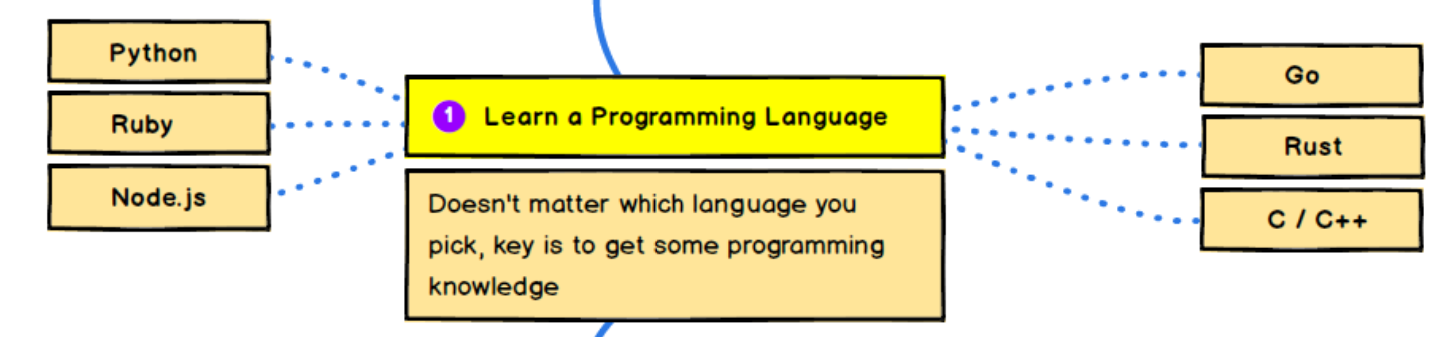
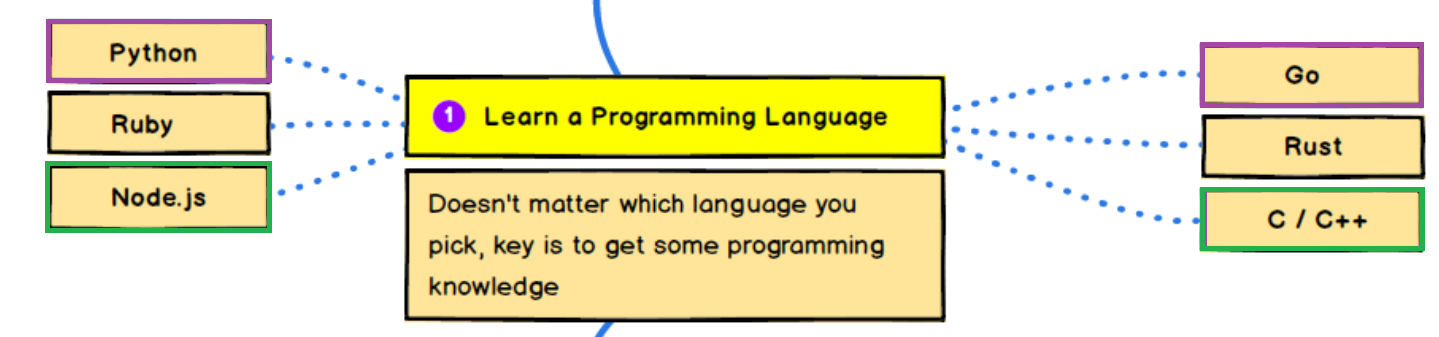
newpost1223-workin1

diff --git a/_posts/2019-12-23-now_I_know.md b/_posts/2019-12-23-now_I_know.md
@@ -5,7 +5,19 @@ title: 19년말 지금 나는 뭘 아나?
 
 > 월.요.일.조.아
 
-크리스마스 주에는 일이 별로 없다. 그래서 오늘은 잠시 블로그를 써봐도 될것만 같다. 오늘은 저번에 봤던 roadmap에서 **대체 난 뭘 아나?**를 알아볼 것이다.
+크리스마스 주에는 일이 별로 없다. 그래서 오늘은 잠시 블로그를 써봐도 될것만 같다. 
+오늘은 저번에 봤던 roadmap에서 **대체 난 뭘 아나?**를 알아볼 것이다.
 
 ## 1. Learn a Programming Language
 ![section1]({{site.baseurl}}/images/section1.PNG)
+프로그래밍 컨셉에 대해서 이해를 한다!가 핵심이라면
+'나는 C++과 Node.JS를 통해서 프로그래밍 컨셉을 이해했음'이라고 이야기 할 것 같다.
+
+나에게 있어 C++은 프로그래밍 자체, Node.JS는 프로그래밍 언어 컨셉에 가깝다.
+
+- C++에서 class를 엄청 많이 써서 OO(Object Oriented)컨셉을 배웠다기 보다는 [백준](https://www.acmicpc.net/user/gongtuigigi)에서 문제를 풀면서 데이터 구조와 알고리즘등 '프로그래밍' 에 대해서 배웠다.
+- NodeJS를 가지고 Angular로 프론트 개발이나 Express서버 개발을 해보면서, 다른 이상한 언어랑 다르게 프로토타입을 기반으로 한 OO(?), 비동기 방식등 이상한 컨셉을 이해할 수 있었다.
+
+이정도면 되려나 모르겠다. 일단 앞으로도 두 언어로 계속 알고리즘 풀고 개발할 에정이니 더 채워 질듯 ㅎ
+
+## 2. Understand Different OS Concept
